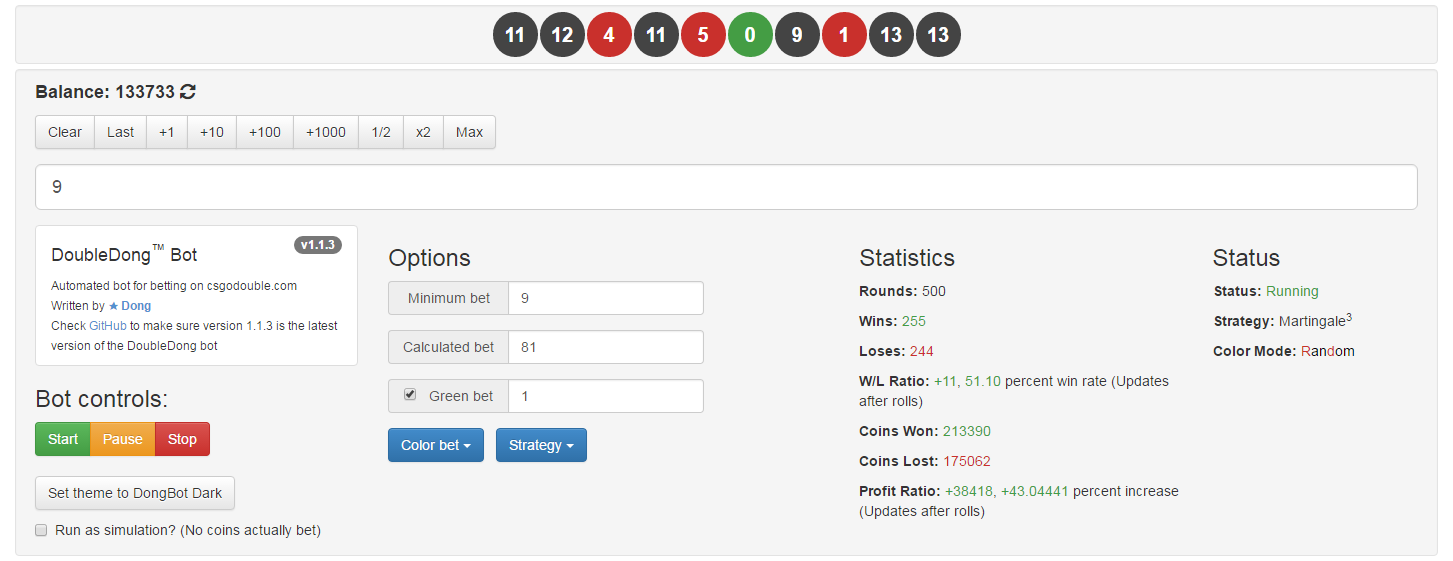
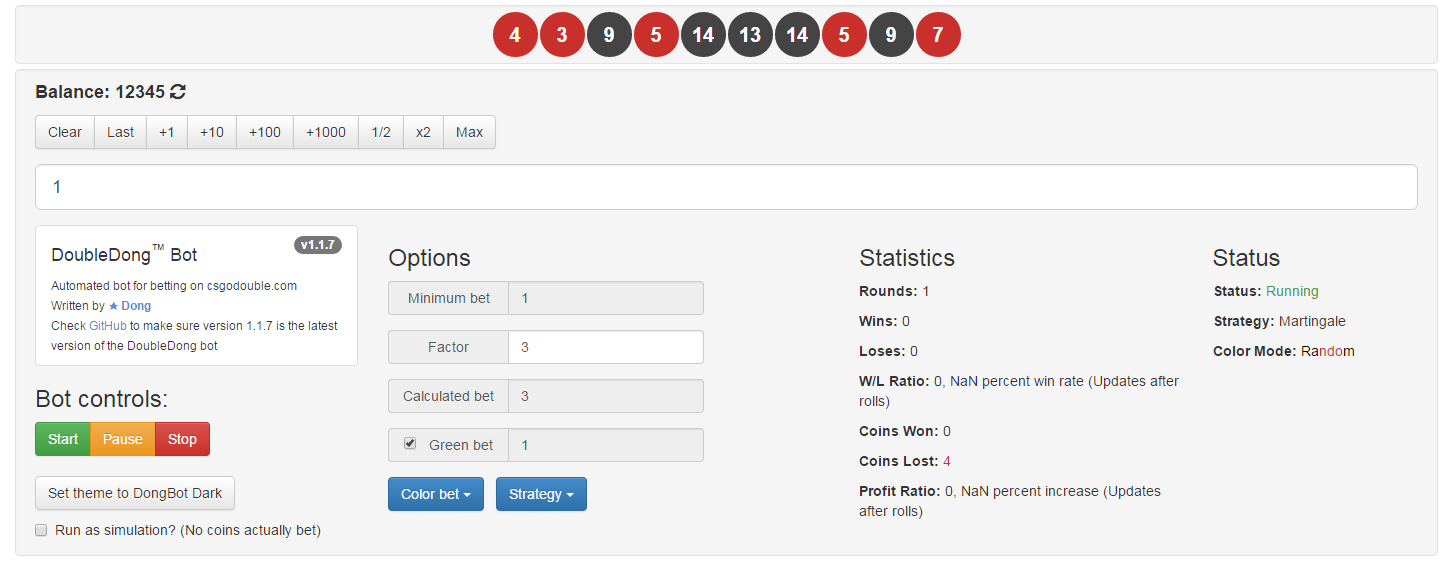
Added files via upload

diff --git a/bots/botDouble1.1.4.js b/bots/botDouble1.1.4.js
@@ -35,7 +35,7 @@ var rollid = 0,
 	colorMode = 0,
 	strat = 0,
 	wager = [0, 0, 0],
-	versionId = "1.1.7";
+	versionId = "1.1.4";
 
 function themeSet(i) {
 	var style;
@@ -88,25 +88,19 @@ function optionsAdd() {
 				'<div class="form-group">' +
 					'<div class="input-group">' +
 						'<div class="input-group-addon" id="betOpts">Minimum bet</div>' +
-						'<input type="number" class="form-control" placeholder="Calculating base value..." id="wagerBase" disabled>' +
-					'</div>' +
-				'</div>' +
-				'<div class="form-group">' +
-					'<div class="input-group">' +
-						'<div class="input-group-addon" id="betOpts">Factor</div>' +
-						'<input type="number" class="form-control" placeholder="Exponential Factor" id="wagerExpo">' +
+						'<input type="number" class="form-control" placeholder="Set base value" id="wagerBase">' +
 					'</div>' +
 				'</div>' +
 				'<div class="form-group">' +
 					'<div class="input-group">' +
 						'<div class="input-group-addon" id="betOpts">Calculated bet</div>' +
-						'<input type="number" class="form-control" placeholder="Calculating wager..." id="wagerValue" disabled>' +
+						'<input type="number" class="form-control" placeholder="Calculated wager" id="wagerValue">' +
 					'</div>' +
 				'</div>' +
 				'<div class="form-group">' +
 					'<div class="input-group">' +
 						'<div class="input-group-addon" id="betOpts"><input id="betGreen" type="checkbox"> &nbsp; Green bet</div>' +
-						'<input type="number" class="form-control" placeholder="Calculating green wager..." id="wagerGreen" disabled>' +
+						'<input type="number" class="form-control" placeholder="Coins to bet on green" id="wagerGreen">' +
 					'</div>' +
 				'</div>' +
 				'<div class="btn-group">' +
@@ -114,7 +108,7 @@ function optionsAdd() {
 					'<ul class="dropdown-menu">' +
 						'<li><a href="#" onclick="betSet(0)">Red</a></li>' +
 						'<li><a href="#" onclick="betSet(1)">Black</a></li>' +
-						'<li><a href="#" onclick="betSet(2)">Opposite Last</a></li>' +
+						'<li><a href="#" onclick="betSet(2)">Rainbow</a></li>' +
 						'<li><a href="#" onclick="betSet(3)">Last Roll</a></li>' +
 						'<li><a href="#" onclick="betSet(4)">Random</a></li>' +
 					'</ul>' +
@@ -125,6 +119,7 @@ function optionsAdd() {
 					'<ul class="dropdown-menu">' +
 						'<li><a href="#" onclick="stratSet(0)">Static</a></li>' +
 						'<li><a href="#" onclick="stratSet(1)">Martingale</a></li>' +
+						'<li><a href="#" onclick="stratSet(5)">Martingale<sup>3</sup></a></li>' +
 						'<li class="disabled"><a href="#" onclick="stratSet(1)">Fibonacci</a></li>' +
 						'<li class="disabled"><a href="#" onclick="stratSet(1)">D\Alembert</a></li>' +
 						'<li class="disabled"><a href="#" onclick="stratSet(1)">Oscar\s Grind</a></li>' +
@@ -176,6 +171,7 @@ function stratSet(i) {
 	if (i == 2) document.getElementById('botStrat').innerHTML = 'Oscar\'s Grind';
 	if (i == 3) document.getElementById('botStrat').innerHTML = 'D\'Alembert';
 	if (i == 4) document.getElementById('botStrat').innerHTML = 'Fibonacci';
+	if (i == 5) document.getElementById('botStrat').innerHTML = 'Martingale<sup>3</sup>';
 	strat = i;
 	betBase = document.getElementById("wagerBase").value;
 	betBase = Number(betBase);
@@ -288,16 +284,8 @@ function botProcess() {
 		if (rollidNew > rollid) {
 			rollid = rollidNew;
 			roll = rollLast();
-			bbetBase = document.getElementById("wagerBase").value
-			bbetBase = Number(bbetBase);
-			if (!(bbetBase > 0)) {
-				betFactor = document.getElementById("wagerExpo").value;
-				betFactor = Number(betFactor);
-				document.getElementById("wagerBase").value = Math.pow(1, betFactor);
-			}
 			betBase = document.getElementById("wagerBase").value;
 			betBase = Number(betBase);
-			betBase = Math.pow(1, betBase);
 			child = 9;
 			last = document.getElementById('past').childNodes[child].innerHTML;
 			while (last == "0") {
@@ -451,9 +439,9 @@ function botProcess() {
 					wager[2] = 0;
 					betWagerGreen = 0;
 					if (document.getElementById("betGreen").checked == true) {
-						betWagerGreen = Math.ceil(betWager/7);
+						betWagerGreen = document.getElementById("wagerGreen").value;
+						if (strat == 5) betWagerGreen = Math.ceil(betWager/10);
 						document.getElementById("betAmount").value = betWagerGreen;
-						document.getElementById("wagerGreen").value = betWagerGreen;
 						$button = $("#panel0-0 .betButton");
 						$button.click();
 						wager[2] = Number(betWagerGreen);

diff --git a/bots/botDouble1.1.5.js b/bots/botDouble1.1.5.js
@@ -35,7 +35,7 @@ var rollid = 0,
 	colorMode = 0,
 	strat = 0,
 	wager = [0, 0, 0],
-	versionId = "1.1.7";
+	versionId = "1.1.5";
 
 function themeSet(i) {
 	var style;
@@ -88,25 +88,19 @@ function optionsAdd() {
 				'<div class="form-group">' +
 					'<div class="input-group">' +
 						'<div class="input-group-addon" id="betOpts">Minimum bet</div>' +
-						'<input type="number" class="form-control" placeholder="Calculating base value..." id="wagerBase" disabled>' +
-					'</div>' +
-				'</div>' +
-				'<div class="form-group">' +
-					'<div class="input-group">' +
-						'<div class="input-group-addon" id="betOpts">Factor</div>' +
-						'<input type="number" class="form-control" placeholder="Exponential Factor" id="wagerExpo">' +
+						'<input type="number" class="form-control" placeholder="Set base value" id="wagerBase">' +
 					'</div>' +
 				'</div>' +
 				'<div class="form-group">' +
 					'<div class="input-group">' +
 						'<div class="input-group-addon" id="betOpts">Calculated bet</div>' +
-						'<input type="number" class="form-control" placeholder="Calculating wager..." id="wagerValue" disabled>' +
+						'<input type="number" class="form-control" placeholder="Calculated wager" id="wagerValue">' +
 					'</div>' +
 				'</div>' +
 				'<div class="form-group">' +
 					'<div class="input-group">' +
 						'<div class="input-group-addon" id="betOpts"><input id="betGreen" type="checkbox"> &nbsp; Green bet</div>' +
-						'<input type="number" class="form-control" placeholder="Calculating green wager..." id="wagerGreen" disabled>' +
+						'<input type="number" class="form-control" placeholder="Coins to bet on green" id="wagerGreen">' +
 					'</div>' +
 				'</div>' +
 				'<div class="btn-group">' +
@@ -114,7 +108,7 @@ function optionsAdd() {
 					'<ul class="dropdown-menu">' +
 						'<li><a href="#" onclick="betSet(0)">Red</a></li>' +
 						'<li><a href="#" onclick="betSet(1)">Black</a></li>' +
-						'<li><a href="#" onclick="betSet(2)">Opposite Last</a></li>' +
+						'<li><a href="#" onclick="betSet(2)">Rainbow</a></li>' +
 						'<li><a href="#" onclick="betSet(3)">Last Roll</a></li>' +
 						'<li><a href="#" onclick="betSet(4)">Random</a></li>' +
 					'</ul>' +
@@ -125,6 +119,7 @@ function optionsAdd() {
 					'<ul class="dropdown-menu">' +
 						'<li><a href="#" onclick="stratSet(0)">Static</a></li>' +
 						'<li><a href="#" onclick="stratSet(1)">Martingale</a></li>' +
+						'<li><a href="#" onclick="stratSet(5)">Martingale<sup>3</sup></a></li>' +
 						'<li class="disabled"><a href="#" onclick="stratSet(1)">Fibonacci</a></li>' +
 						'<li class="disabled"><a href="#" onclick="stratSet(1)">D\Alembert</a></li>' +
 						'<li class="disabled"><a href="#" onclick="stratSet(1)">Oscar\s Grind</a></li>' +
@@ -176,6 +171,7 @@ function stratSet(i) {
 	if (i == 2) document.getElementById('botStrat').innerHTML = 'Oscar\'s Grind';
 	if (i == 3) document.getElementById('botStrat').innerHTML = 'D\'Alembert';
 	if (i == 4) document.getElementById('botStrat').innerHTML = 'Fibonacci';
+	if (i == 5) document.getElementById('botStrat').innerHTML = 'Martingale<sup>3</sup>';
 	strat = i;
 	betBase = document.getElementById("wagerBase").value;
 	betBase = Number(betBase);
@@ -288,16 +284,8 @@ function botProcess() {
 		if (rollidNew > rollid) {
 			rollid = rollidNew;
 			roll = rollLast();
-			bbetBase = document.getElementById("wagerBase").value
-			bbetBase = Number(bbetBase);
-			if (!(bbetBase > 0)) {
-				betFactor = document.getElementById("wagerExpo").value;
-				betFactor = Number(betFactor);
-				document.getElementById("wagerBase").value = Math.pow(1, betFactor);
-			}
 			betBase = document.getElementById("wagerBase").value;
 			betBase = Number(betBase);
-			betBase = Math.pow(1, betBase);
 			child = 9;
 			last = document.getElementById('past').childNodes[child].innerHTML;
 			while (last == "0") {
@@ -451,9 +439,9 @@ function botProcess() {
 					wager[2] = 0;
 					betWagerGreen = 0;
 					if (document.getElementById("betGreen").checked == true) {
-						betWagerGreen = Math.ceil(betWager/7);
+						betWagerGreen = document.getElementById("wagerGreen").value;
+						if (strat == 5) betWagerGreen = Math.ceil(betWager/7);
 						document.getElementById("betAmount").value = betWagerGreen;
-						document.getElementById("wagerGreen").value = betWagerGreen;
 						$button = $("#panel0-0 .betButton");
 						$button.click();
 						wager[2] = Number(betWagerGreen);

diff --git a/bots/botDouble1.1.6.js b/bots/botDouble1.1.6.js
@@ -35,7 +35,7 @@ var rollid = 0,
 	colorMode = 0,
 	strat = 0,
 	wager = [0, 0, 0],
-	versionId = "1.1.7";
+	versionId = "1.1.6";
 
 function themeSet(i) {
 	var style;
@@ -88,13 +88,7 @@ function optionsAdd() {
 				'<div class="form-group">' +
 					'<div class="input-group">' +
 						'<div class="input-group-addon" id="betOpts">Minimum bet</div>' +
-						'<input type="number" class="form-control" placeholder="Calculating base value..." id="wagerBase" disabled>' +
-					'</div>' +
-				'</div>' +
-				'<div class="form-group">' +
-					'<div class="input-group">' +
-						'<div class="input-group-addon" id="betOpts">Factor</div>' +
-						'<input type="number" class="form-control" placeholder="Exponential Factor" id="wagerExpo">' +
+						'<input type="number" class="form-control" placeholder="Set base value" id="wagerBase">' +
 					'</div>' +
 				'</div>' +
 				'<div class="form-group">' +
@@ -114,7 +108,7 @@ function optionsAdd() {
 					'<ul class="dropdown-menu">' +
 						'<li><a href="#" onclick="betSet(0)">Red</a></li>' +
 						'<li><a href="#" onclick="betSet(1)">Black</a></li>' +
-						'<li><a href="#" onclick="betSet(2)">Opposite Last</a></li>' +
+						'<li><a href="#" onclick="betSet(2)">Rainbow</a></li>' +
 						'<li><a href="#" onclick="betSet(3)">Last Roll</a></li>' +
 						'<li><a href="#" onclick="betSet(4)">Random</a></li>' +
 					'</ul>' +
@@ -125,6 +119,7 @@ function optionsAdd() {
 					'<ul class="dropdown-menu">' +
 						'<li><a href="#" onclick="stratSet(0)">Static</a></li>' +
 						'<li><a href="#" onclick="stratSet(1)">Martingale</a></li>' +
+						'<li><a href="#" onclick="stratSet(5)">Martingale<sup>3</sup></a></li>' +
 						'<li class="disabled"><a href="#" onclick="stratSet(1)">Fibonacci</a></li>' +
 						'<li class="disabled"><a href="#" onclick="stratSet(1)">D\Alembert</a></li>' +
 						'<li class="disabled"><a href="#" onclick="stratSet(1)">Oscar\s Grind</a></li>' +
@@ -176,6 +171,7 @@ function stratSet(i) {
 	if (i == 2) document.getElementById('botStrat').innerHTML = 'Oscar\'s Grind';
 	if (i == 3) document.getElementById('botStrat').innerHTML = 'D\'Alembert';
 	if (i == 4) document.getElementById('botStrat').innerHTML = 'Fibonacci';
+	if (i == 5) document.getElementById('botStrat').innerHTML = 'Martingale<sup>3</sup>';
 	strat = i;
 	betBase = document.getElementById("wagerBase").value;
 	betBase = Number(betBase);
@@ -288,16 +284,8 @@ function botProcess() {
 		if (rollidNew > rollid) {
 			rollid = rollidNew;
 			roll = rollLast();
-			bbetBase = document.getElementById("wagerBase").value
-			bbetBase = Number(bbetBase);
-			if (!(bbetBase > 0)) {
-				betFactor = document.getElementById("wagerExpo").value;
-				betFactor = Number(betFactor);
-				document.getElementById("wagerBase").value = Math.pow(1, betFactor);
-			}
 			betBase = document.getElementById("wagerBase").value;
 			betBase = Number(betBase);
-			betBase = Math.pow(1, betBase);
 			child = 9;
 			last = document.getElementById('past').childNodes[child].innerHTML;
 			while (last == "0") {
@@ -451,9 +439,9 @@ function botProcess() {
 					wager[2] = 0;
 					betWagerGreen = 0;
 					if (document.getElementById("betGreen").checked == true) {
-						betWagerGreen = Math.ceil(betWager/7);
+						betWagerGreen = document.getElementById("wagerGreen").value;
+						if (strat == 5) betWagerGreen = Math.ceil(betWager/7);
 						document.getElementById("betAmount").value = betWagerGreen;
-						document.getElementById("wagerGreen").value = betWagerGreen;
 						$button = $("#panel0-0 .betButton");
 						$button.click();
 						wager[2] = Number(betWagerGreen);
